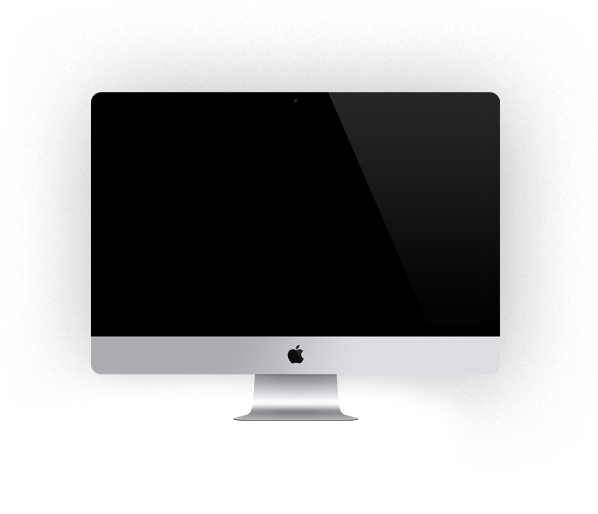
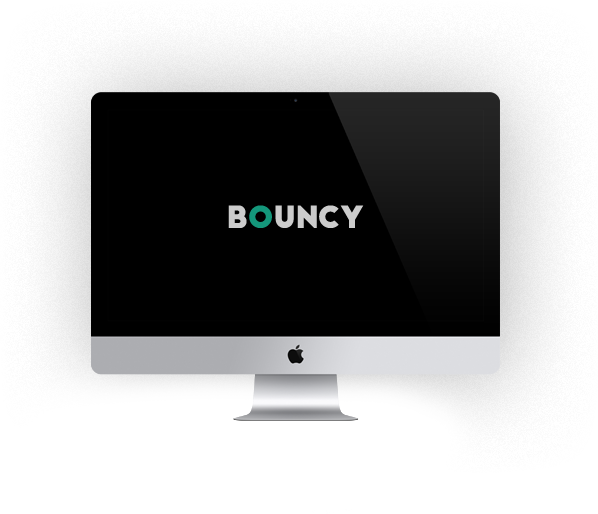
G

Changed region(s): [[0.3612, 0.3735, 0.602, 0.4669]]

diff --git a/index.html b/index.html
@@ -3,8 +3,9 @@
 <head>
 	<meta charset="UTF-8">
 	<title>Document</title>
-	<link href="css/style.css" rel="stylesheet">
 	<link rel="stylesheet" type="text/css" href="https://stackpath.bootstrapcdn.com/bootstrap/4.3.1/css/bootstrap.min.css"> 
+	<link href="css/style.css" rel="stylesheet">
+	<meta name="viewport" content="width=device-width, initial-scale=1">
 </head>
 
 <body>
@@ -33,13 +34,46 @@
 					<h1>We Are Code Cafe</h1>
 					<p>At vero eos et accusamus et iusto odio dignissimos ducimus qui blanditiis<br> praesentium voluptam</p>		
 			</div>
-		</div>	
-	
-	
+		</div>
+			
+			<!-- <div class="site-head">
+	<div class="container">
+		<header class="header">
+			<div class="header__logo">Bounsy</div>
+			<nav class="header__nav">
+				<ul class="header__list">
+					<li class="header__list-item">
+						<a class="header__list-link" href="#">Hello</a>
+					</li>
+					<li class="header__list-item"><a class="header__list-link" href="#">About</a></li>
+					<li class="header__list-item">
+						<a class="header__list-link" href="#">Services</a>
+					</li>
+					<li class="header__list-item">
+						<a class="header__list-link" href="#">Portfolio</a>
+					</li>
+					<li class="header__list-item">
+						<a class="header__list-link" href="#">Team</a>
+					</li>
+					<li class="header__list-item">
+						<a class="header__list-link" href="#">Blog</a>
+					</li>
+					<li class="header__list-item">
+						<a class="header__list-link" href="#">Contact</a>
+					</li>
+				</ul>
+			</nav>
+		</header>
+		<section class="head-article">
+			<h1 class="head-article__title">We Are Code Cafe</h1>
+			<p class="head-article__text">At vero eos et accusamus et iusto odio dignissimos ducimus qui blanditiis<br> praesentium voluptam</p>
+		</section>
+	</div>
+</div> -->
 	<section>
 			<div class="container">
 			 <div class="row content">
-				<div class="row col-5 offset-1">
+				<div class="row offset-1 col-5">
 					<h3 class="content__title">This is Bouncy</h3>
 					<p class="content__text">At vero eos et accusamus et iusto odio dignissimos ducimus qui blanditiis praesentium voluptatum deleniti atque corrupti quos dolores et quas molestias excepturi sint occaecati cupiditate non provident, similique sunt in culpa qui officia deserunt mollitia animi, id est laborum et dolorum fuga. Et harum quidem rerum facilis est et expedita distinctio.</p>
 			<div class="content__more"><a href="">Read More</a></div>
@@ -127,10 +161,9 @@
 			<div class="row col-5 announcement">
 				<h5>Impressed ?</h5>
 				<p>At vero eos et accusamus et iusto odio dignissimos 	ducimus qui blanditiis praesentium voluptatum deleniti atque corrupti quos dolores et quas molestias</p>
-				<p>-Abdullah Noman<br>Creatice Director,<span>Code Cafe</span></p>
+				<p>-Abdullah Noman<br>Creatice Director, <span>Code Cafe</span></p>
 			</div>
-		<!-- 	<div class="row offset-6"><img src="img/monitor.png" alt="">
-			</div> -->
+			<img src="img/monitor.png" alt="">
 		</div>	
 		</div>
 	</section>
@@ -175,17 +208,20 @@
 					<div class="btn offset-5"><a href="">Start Project</a></div>
 			</div>
 		</div>
-		<div class="container">
+		<!-- <div class="container">
 			<div class="tagline">
 				<h4 class="tagline__h">THE TEAM</h4><p>At vero eos et accusamus et iusto odio dignissimos ducimus qui blanditiis praesentium</p>
 			</div>
-			<div class="row offset-1">
+			 <div class="row">
+			<div class="row col-2 offset-1">
 				<img src="img/man.jpg" alt="">
 			</div>
-			
-		</div>
-			
-	
 
+			<div class="row col-4 offset-5">
+			<h6>Abdullah Noman<br>Creative Director, Code Cafe</h6>
+			At vero eos et accusamus et iusto odio dignissimos ducimus qui blanditiis praesentium
+			</div>
+		 </div>
+		</div> -->
 </body>
 </html>                                             

diff --git a/css/style.css b/css/style.css
@@ -5,7 +5,135 @@
 
 header {
   padding: 80px; }
+  
+/*html {
+  box-sizing: border-box;
+  font-family: sans-serif;
+  font-size: 16px;
+  line-height: 1.25;
+}
+body {
+  margin: 0;
+}
+*,
+::after,
+::before {
+  box-sizing: inherit;
+}
+h1 {
+  font-size: 1.5rem;
+  font-weight: 300;
+  word-spacing: 10px;
+  letter-spacing: 5px;
+  @media (min-width: 1140px) {
+    font-size: 2.5rem;
+  }
+}
 
+p + p {
+  margin-top: 8px;
+}
+
+.container {
+  width: 100%;
+  padding-left: 16px;
+  padding-right: 16px;
+
+  @media (min-width: 1140px) {
+    max-width: 1200px;
+    margin-left: auto;
+    margin-right: auto;
+    padding-left: 0;
+    padding-right: 0;
+  }
+}
+.site-head {
+  display: flex;
+  flex-direction: column;
+  min-height: 100vh;
+  color: #fff;
+  background-color: #88541891;
+  background-image: url("https://www.economist.com/sites/default/files/imagecache/1280-width/20180818_BLP503.jpg");
+  background-position: center;
+  background-repeat: no-repeat;
+  background-size: cover;
+
+  .container {
+    flex: 1;
+    display: flex;
+    flex-direction: column;
+  }
+}
+
+.header {
+  display: flex;
+  align-items: center;
+  justify-content: space-between;
+  padding-top: 16px;
+  padding-bottom: 16px;
+
+  &__logo {
+    font-size: 30px;
+    font-weight: 600;
+    text-transform: uppercase;
+  }
+
+  &__nav {
+    margin-left: 32px;
+    overflow-x: auto;
+  }
+
+  &__list {
+    display: flex;
+    padding: 0;
+    margin: 0;
+    list-style-type: none;
+  }
+
+  &__list-item {
+    padding: 2px;
+    & + .header__list-item {
+      margin-left: 16px;
+    }
+  }
+  &__list-link {
+    display: inline-block;
+    padding: 2px 8px;
+    font-size: inherit;
+    line-height: inherit;
+    color: #fff;
+    text-decoration: none;
+    border-radius: 16px;
+    transition: box-shadow 0.15s ease;
+
+    &:hover {
+      box-shadow: 0 0 0 1px #fff;
+    }
+  }
+}
+
+.head-article {
+  padding-top: 5vh;
+  padding-bottom: 10vh;
+  margin-top: auto;
+  margin-bottom: auto;
+
+  &__title {
+    text-align: center;
+    margin-bottom: 24px;
+  }
+
+  &__text {
+    text-align: center;
+  }
+
+  @media (min-width: 1140px) {
+    &__title {
+      margin-bottom: 48px;
+    }
+  }
+}
+*/
 .wrapper {
   background: url("../img/ocean.jpg") no-repeat;
   background-size: 100%;
@@ -16,10 +144,10 @@ header {
   font-weight: bold;
   font-size: 30px;
   text-transform: uppercase;
-  display: inline; }
+  display: inline;
+  margin-right: 400px; }
 .header__nav {
-  display: inline-block;
-  margin-left: 500px; }
+  display: inline-block; }
   .header__nav ul {
     display: flex;
     justify-content: flex-end;
@@ -35,6 +163,7 @@ header {
     border: 1px solid #ffffff;
     border-radius: 10px; }
 
+
 .article {
   margin-top: 100px; }
   .article h1, .article p {
@@ -45,10 +174,15 @@ header {
     margin-bottom: 50px;
     word-spacing: 10px;
     letter-spacing: 5px; }
+    
+/*   @media (min-width: 576px){
+    .header__nav{
+      display: block;
+    }
+   } */
 
 .content {
-  margin-top: 115px;
-  margin-left: 260px; }
+  margin-top: 115px; }
   .content a {
     text-decoration: none;
     color: #333b46;
@@ -212,6 +346,10 @@ header {
   background-size: 100%;
   height: 390px;
   position: relative; }
+  .black_fon img {
+    position: absolute;
+    top: -120px;
+    right: 80px; }
 
 .announcement {
   color: white; }

diff --git a/sass/style.sass b/sass/style.sass
@@ -18,10 +18,11 @@ header
 		font-size: 30px
 		text-transform: uppercase
 		display: inline
+		margin-right: 400px
 		
 	&__nav
 		display: inline-block
-		margin-left: 500px
+		// margin-left: 500px
 		ul
 			display: flex
 			justify-content: flex-end
@@ -52,7 +53,6 @@ header
 		letter-spacing: 5px
 .content
 	margin-top: 115px
-	margin-left: 260px
 	&__more
 			
 		
@@ -213,6 +213,10 @@ header
 	background-size: 100%	
 	height: 390px
 	position: relative
+	img
+		position: absolut
+		top: -180px
+		right: 80px	
 .announcement	
 	color: white
 	span
